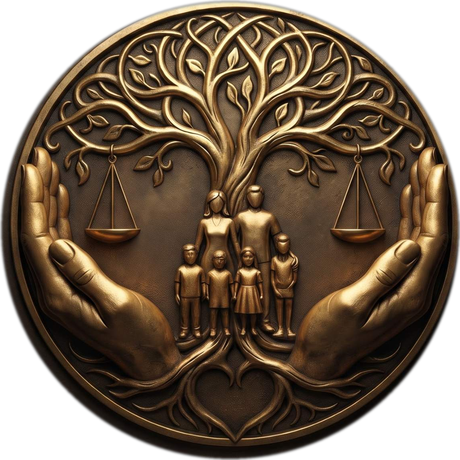
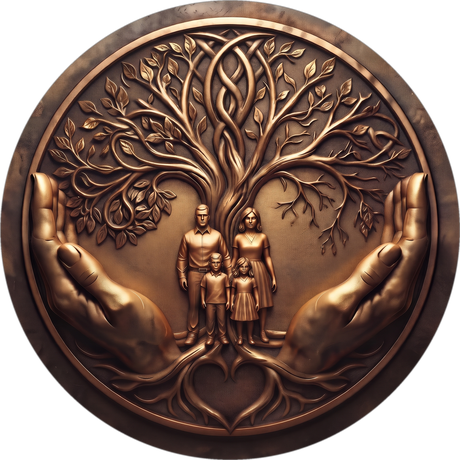
Adopt final emblem artwork; remove stray diagonal lines/shine; engrave all text

diff --git a/index.html b/index.html
@@ -13,6 +13,7 @@
     --gold-3:#6b4420;
     --text:#f1e4d3;
     --text-dim:#b8a68f;
+    --engrave:0 1px 0 rgba(255,245,225,0.22), 0 -1px 0 rgba(0,0,0,0.5), 0 2px 2px rgba(0,0,0,0.4);
   }
   *{box-sizing:border-box;}
   html,body{margin:0;padding:0;}
@@ -52,31 +53,6 @@
   @keyframes rise{
     from{opacity:0; transform:translateY(18px) scale(.985);}
     to{opacity:1; transform:translateY(0) scale(1);}
-  }
-
-  /* corner diagonal gold accents, confined to the corners (not crossing the text) */
-  .corner-line{
-    position:absolute;
-    width:150px; height:2px;
-    background:linear-gradient(90deg, var(--gold-1), transparent);
-    opacity:.5;
-    pointer-events:none;
-  }
-  .corner-line.tl{ top:22px; left:-40px; transform:rotate(38deg); }
-  .corner-line.br{ bottom:18px; right:-40px; transform:rotate(38deg); background:linear-gradient(270deg, var(--gold-1), transparent); }
-
-  .shine{
-    position:absolute; inset:0;
-    background:linear-gradient(115deg, transparent 42%, rgba(232,189,129,0.13) 49%, rgba(232,189,129,0.03) 53%, transparent 60%);
-    background-size:260% 260%;
-    animation:sweep 7s cubic-bezier(.3,0,.2,1) infinite;
-    pointer-events:none;
-    mix-blend-mode:screen;
-  }
-  @keyframes sweep{
-    0%{background-position:170% 0%;}
-    22%{background-position:-50% 100%;}
-    100%{background-position:-50% 100%;}
   }
 
   /* fine metal/leather grain, like a cast or embossed surface */
@@ -138,6 +114,7 @@
     font-weight:600;
     letter-spacing:.3px;
     margin-bottom:3px;
+    text-shadow:var(--engrave);
   }
   .org{
     text-align:center;
@@ -159,6 +136,7 @@
     border:1px solid rgba(181,117,47,0.4);
     color:var(--gold-1);
     white-space:nowrap;
+    text-shadow:var(--engrave);
   }
 
   .divider{
@@ -189,8 +167,8 @@
   }
   .icon svg{width:16px;height:16px;stroke:var(--gold-1);fill:none;}
   .row-text{display:flex;flex-direction:column;min-width:0;}
-  .row-label{font-size:10.5px;color:var(--text-dim);}
-  .row-value{font-size:14px;font-weight:500;white-space:nowrap;overflow:hidden;text-overflow:ellipsis;}
+  .row-label{font-size:10.5px;color:var(--text-dim);text-shadow:var(--engrave);}
+  .row-value{font-size:14px;font-weight:500;white-space:nowrap;overflow:hidden;text-overflow:ellipsis;text-shadow:var(--engrave);}
 
   .actions{display:flex;flex-direction:column;gap:10px;}
   .btn{
@@ -201,6 +179,7 @@
     text-decoration:none;
     letter-spacing:.2px;
     transition:transform .1s ease, filter .15s ease;
+    text-shadow:var(--engrave);
   }
   .btn:active{transform:scale(0.97);}
   .btn-primary{
@@ -222,6 +201,7 @@
     color:var(--text-dim);
     opacity:.7;
     line-height:1.6;
+    text-shadow:var(--engrave);
   }
   footer a{color:var(--text-dim); text-decoration:underline;}
 
@@ -241,9 +221,6 @@
 
 <div class="wrap">
   <div class="card">
-    <div class="corner-line tl"></div>
-    <div class="corner-line br"></div>
-    <div class="shine"></div>
     <div class="grain"></div>
     <div class="content">
 
